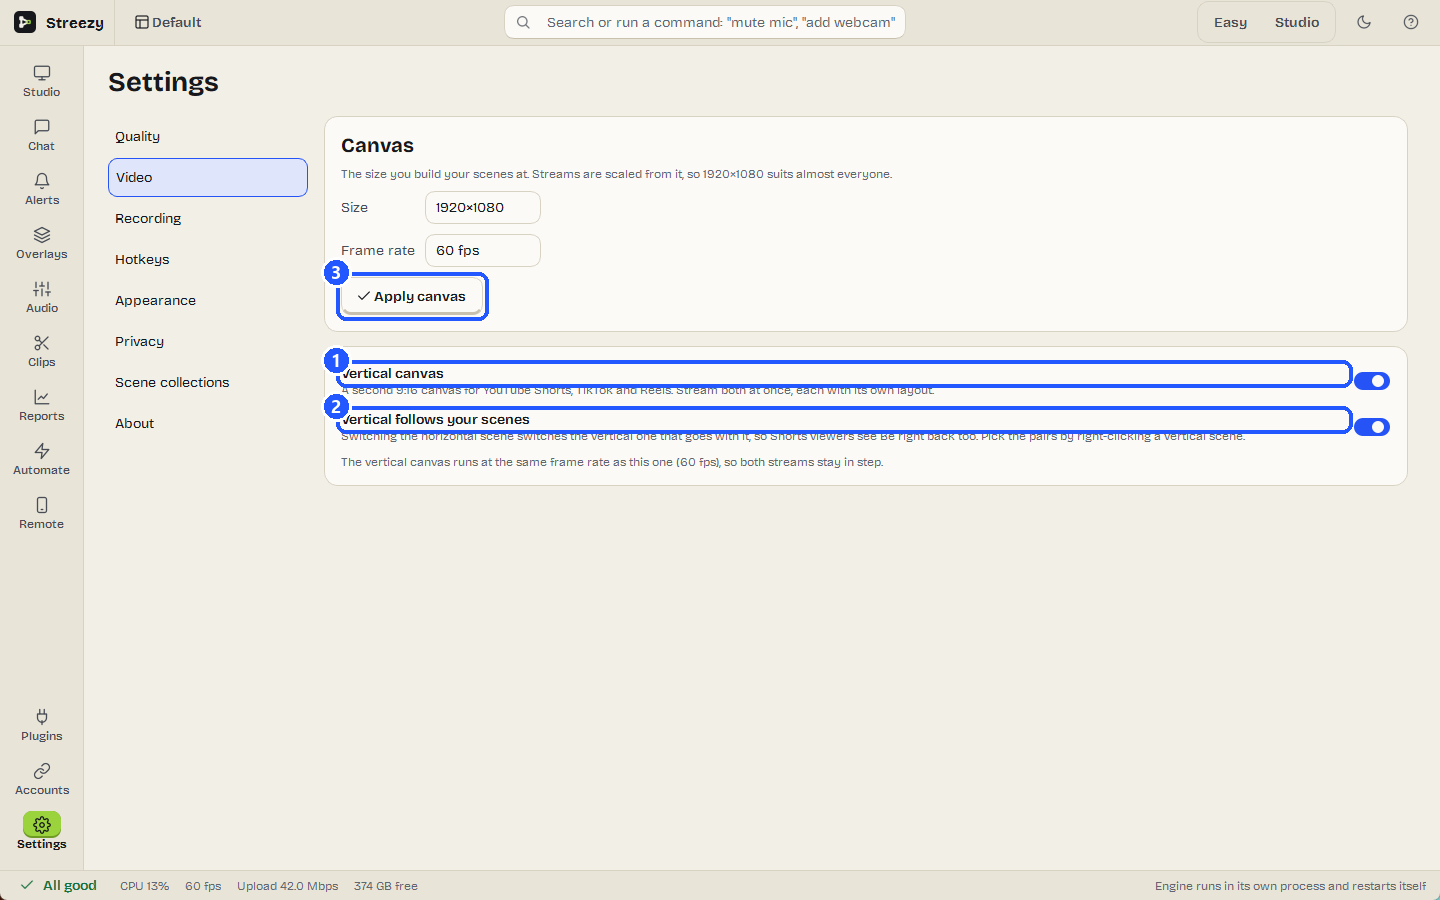
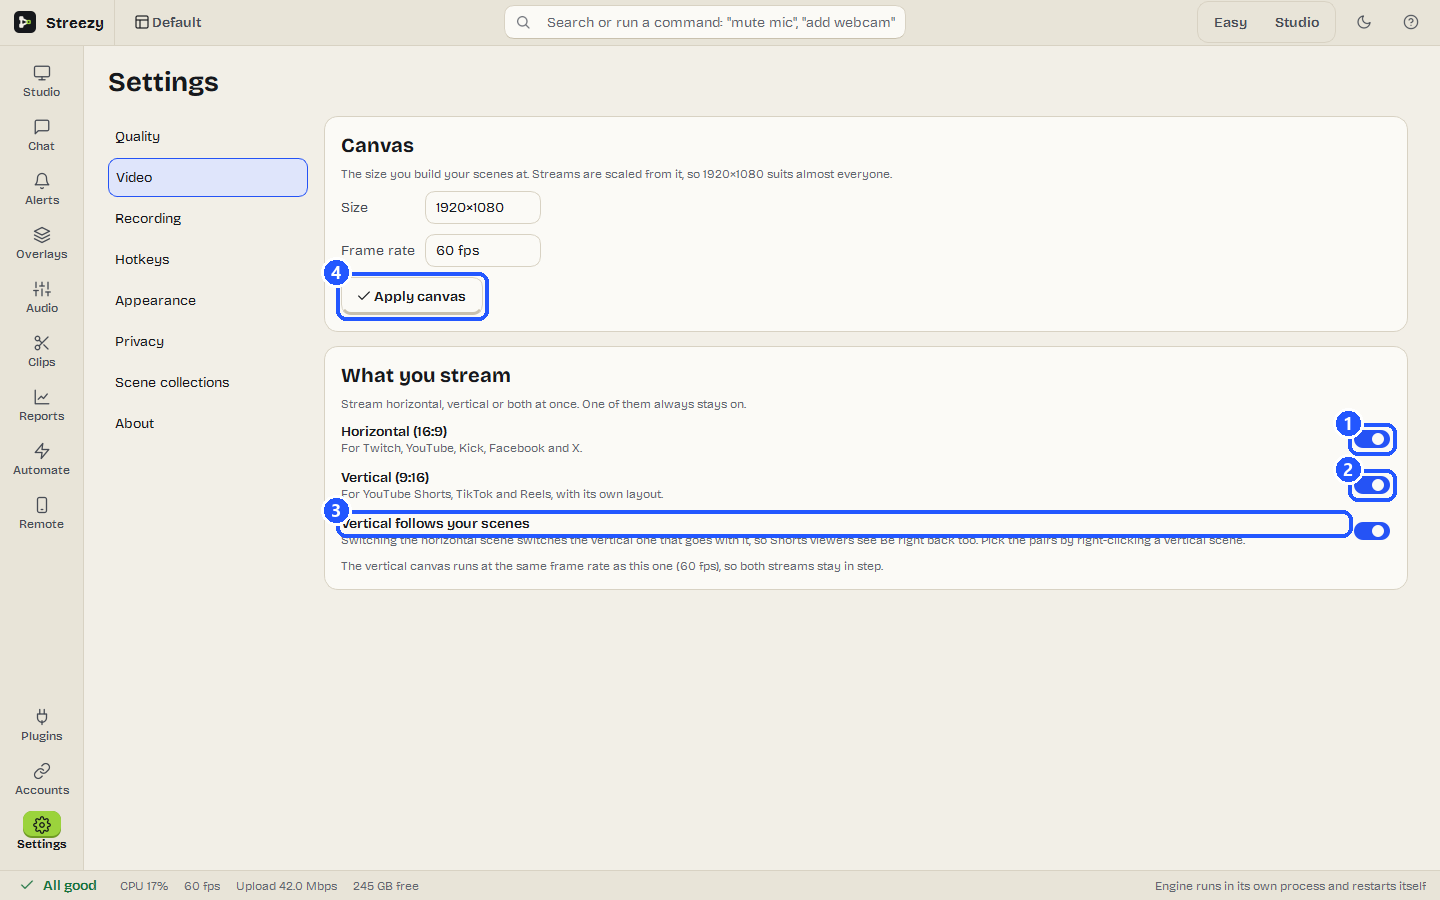
Update the Streezy page and screenshots

Changed region(s): [[0.2188, 0.3733, 0.9688, 0.6533], [0.125, 0.9644, 0.2812, 0.9956]]

diff --git a/guide/streezy-guide.md b/guide/streezy-guide.md
@@ -131,8 +131,11 @@ You can skip this step and add platforms later in **Accounts**. Without any, you
 
 1. Pick the card that fits, for example **Games**: your game full screen, your webcam in a corner, and alerts.
 2. Or **Just chatting** for a big webcam with chat on screen. There are also cards for art, music, talk shows, and coding or tutorials.
-3. Under **Also stream vertical for Shorts, TikTok and Reels?**, choose **Horizontal and vertical** if you also want a 9:16 phone-shaped stream (see [Part 4](#part-4-horizontal-and-vertical)). Otherwise leave **Horizontal only**.
-4. Click **Next**.
+3. **Horizontal (16:9)** is the normal widescreen picture for Twitch, YouTube, Kick, Facebook and X.
+4. **Vertical (9:16)** is the upright phone picture for YouTube Shorts, TikTok and Reels.
+
+   Turn on either one or both (see [Part 4](#part-4-horizontal-and-vertical)). One always stays on: if you turn off the last one, the other switches on.
+5. Click **Next**.
 
 Whichever card you pick, you get these scenes: **Starting soon**, your main scene, **Be right back** and **Ending**. Each is filled with overlays that follow your name and colour.
 
@@ -611,24 +614,38 @@ When the stream ends, Streezy opens its **report** (see [section 20](#20-stream-
 
 ## 17. Stream vertical for Shorts, TikTok and Reels
 
-Phones show video upright (9:16). Streezy can stream a **second, vertical picture** at the same time as your normal horizontal one, each with its own layout. For example, your game on Twitch and a phone-friendly layout on TikTok, live at the same moment.
+Phones show video upright (9:16). Streezy can stream:
+- **horizontal only:** the normal widescreen picture,
+- **vertical only:** just the upright picture, for example only TikTok or YouTube Shorts,
+- **or both at once**, each with its own layout. For example, your game on Twitch and a phone-friendly layout on TikTok, live at the same moment.
 
-### Turn it on
+### Choose what you stream
 
-Do any one of these:
-- In setup, choose **Horizontal and vertical**.
-- In **Settings > Video**, switch on **Vertical canvas**.
-- Add a destination with **Picture: Vertical (9:16)**, such as TikTok or YouTube Shorts.
+Open **Settings > Video**. In setup you get the same two switches.
 
 ![Settings: Video](images/settings-video.png)
 
-1. **Vertical canvas:** a second 9:16 canvas for YouTube Shorts, TikTok and Reels.
-2. **Vertical follows your scenes:** when you switch your horizontal scene, the matching vertical scene switches too. Shorts viewers see *Be right back* when everyone else does.
-3. Above them, **Size** and **Frame rate** set your main canvas. 1920×1080 at 60 fps suits almost everyone. Click **Apply canvas** after a change.
+1. **Horizontal (16:9):** the widescreen picture for Twitch, YouTube, Kick, Facebook and X.
+2. **Vertical (9:16):** the upright picture for YouTube Shorts, TikTok and Reels.
+3. **Vertical follows your scenes** (only shown when both are on): when you switch your horizontal scene, the matching vertical scene switches too. Shorts viewers see *Be right back* when everyone else does.
+4. **Apply canvas** saves a change to the **Size** and **Frame rate** above. 1920×1080 at 60 fps suits almost everyone.
 
-When you turn it on, Streezy builds a vertical version of each of your scenes.
+One of the two always stays on. If you turn off the last one, the other switches on. When vertical is turned on, Streezy builds a vertical version of each of your scenes.
 
-### Work with both
+Adding a destination whose **Picture** is **Vertical (9:16)**, such as TikTok or YouTube Shorts, also turns vertical on.
+
+### Vertical only
+
+With **Horizontal** off:
+- The Studio shows only your 9:16 preview and your vertical scenes. Build them the same way as horizontal ones.
+- Overlays and alerts you add from the Overlays and Alerts pages go into your vertical scenes.
+- New destinations start as **Vertical (9:16)**.
+- In **Go live**, horizontal destinations show *horizontal is off* and sit the stream out, so only your vertical platforms go live.
+- **Studio mode** isn't available, because it works on the horizontal picture. You use Easy mode.
+
+Your sound still works as normal: the vertical stream uses the same mic and PC sound.
+
+### Both at once
 
 ![The Studio with horizontal and vertical](images/vertical-studio.png)
 
@@ -636,7 +653,7 @@ When you turn it on, Streezy builds a vertical version of each of your scenes.
 2. **The vertical preview** shows what phone viewers see. Arrange things in it the same way as in the main preview.
 3. **16:9 / 9:16** above the sources chooses which canvas's sources you are editing.
 
-To put something you already have onto the vertical canvas, right-click it and choose **Also show in Vertical**.
+To put something you already have onto the vertical canvas, right-click it and choose **Also show in Vertical**. Overlays and alerts added from the Overlays and Alerts pages go to whichever tab the Studio is on.
 
 **Sound** always comes from the horizontal canvas, and both streams use it.
 
